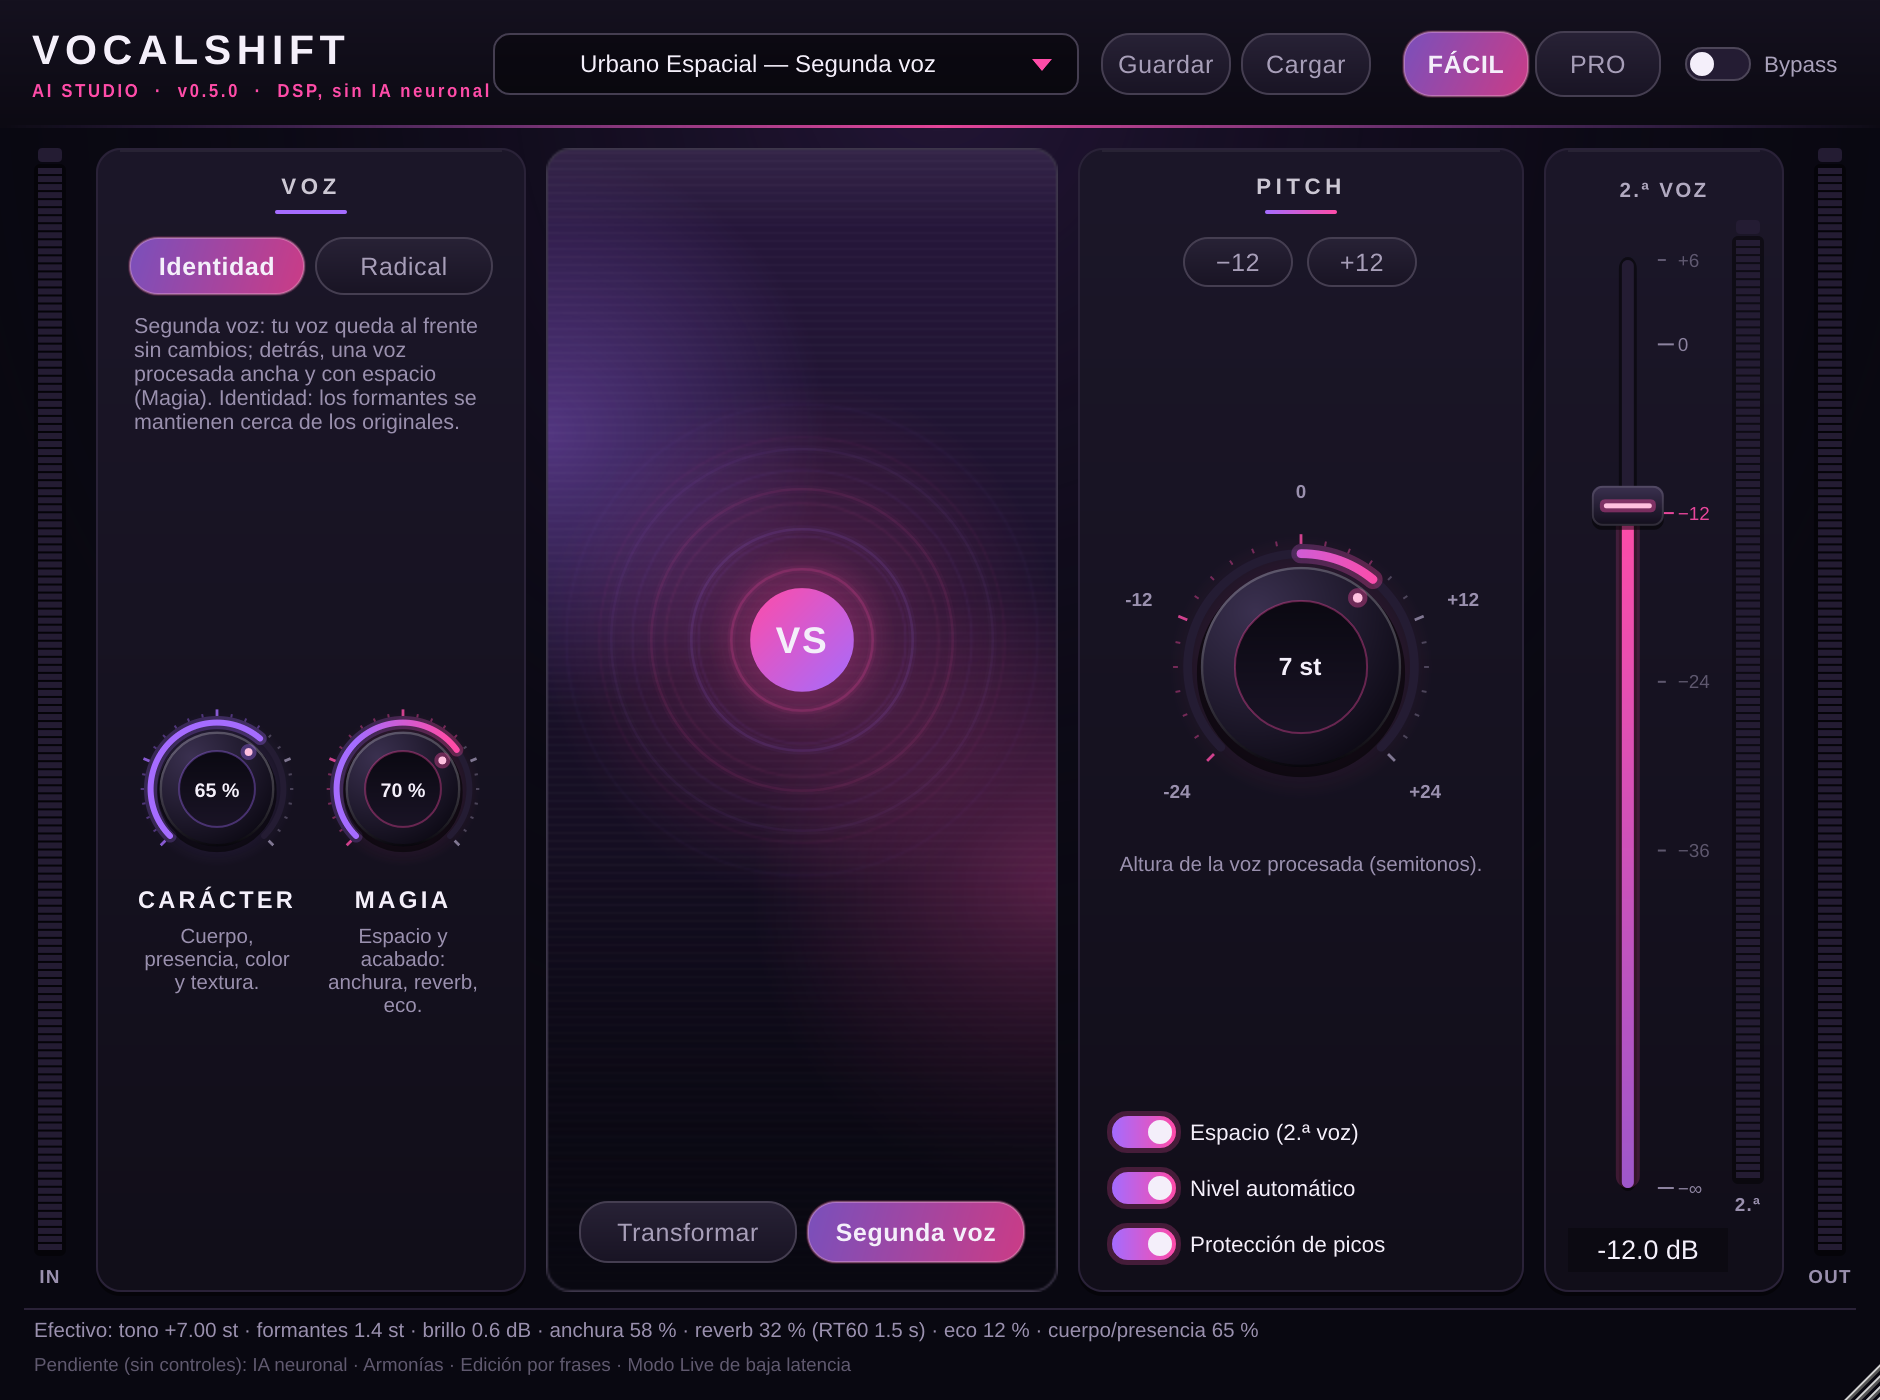
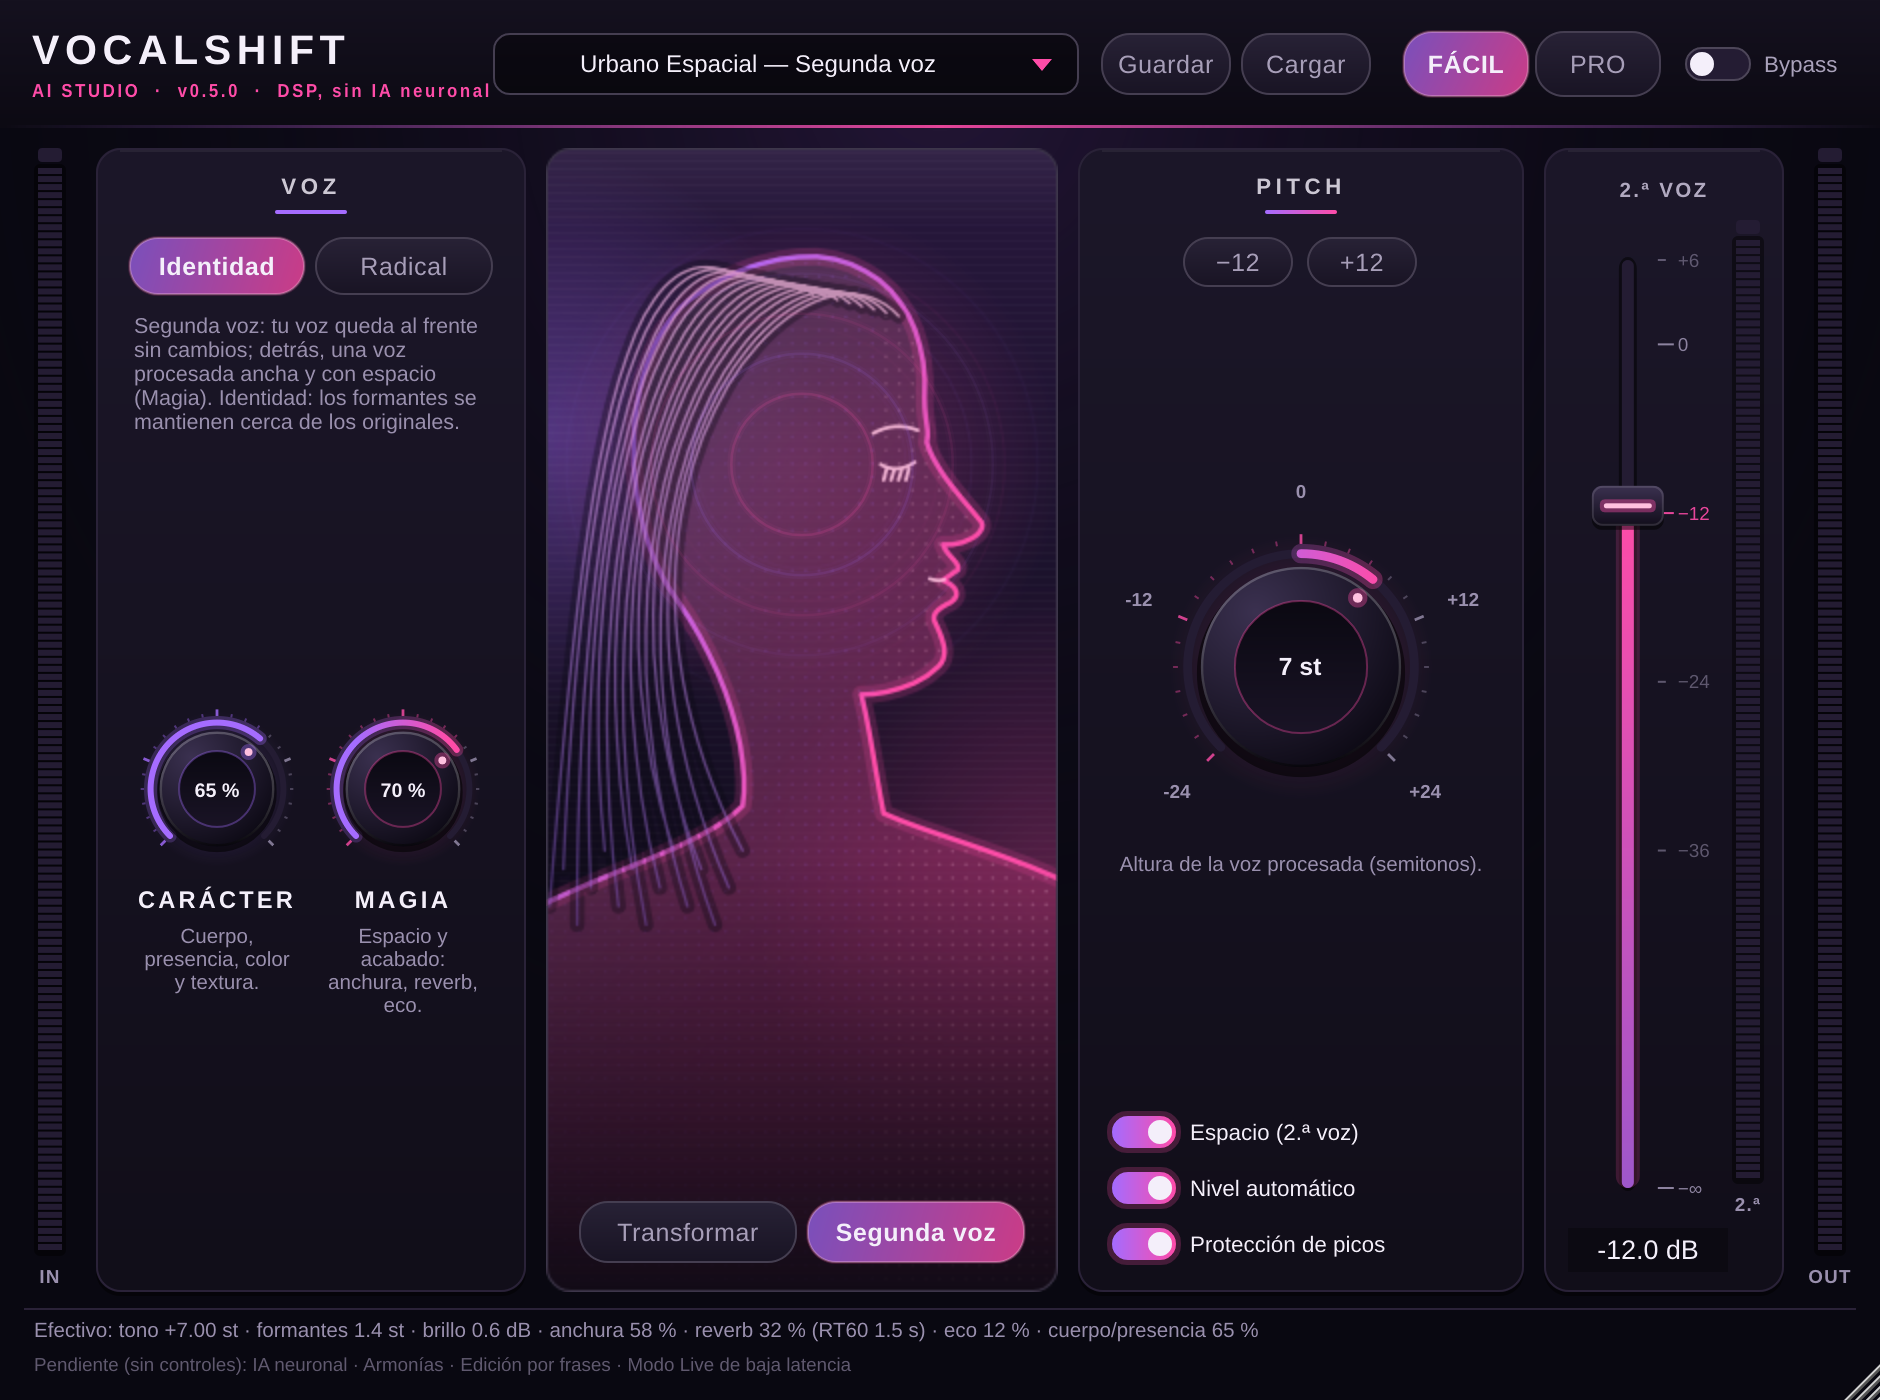
Rediseño visual, entrega 2: rostro vectorial original en el panel central
- Perfil femenino en líneas neón dibujado con código para VocalShift (no
  calcado de ninguna foto ni producto): silueta translúcida, malla de puntos,
  contorno con halo, cejas, ojo con pestañas y mechones de pelo luminosos.
- El contorno frontal se ilumina con el nivel de salida; los anillos quedan
  como halo detrás de la cabeza.
- Todo se pre-renderiza en caché; solo el contorno y los anillos se repintan.

Claude-Session: https://claude.ai/code/session_011a7Avx1tQ3csYw1RtZdBqX

Changed region(s): [[0.2777, 0.1536, 0.5862, 0.86]]

diff --git a/src/plugin/PluginEditor.cpp b/src/plugin/PluginEditor.cpp
@@ -372,9 +372,85 @@ void IdentityPanel::setLevel (float linearPeak)
     }
 }
 
+Rectangle<float> IdentityPanel::faceBox() const
+{
+    // square box for the profile drawing (unit coordinates 0..1); wider than the panel is fine, it is clipped
+    const float side = jmin ((float) getWidth() * 1.45f, (float) getHeight() * 0.92f);
+    return { (float) getWidth() * 0.5f - side * 0.5f, (float) getHeight() * 0.03f, side, side };
+}
+
 Point<float> IdentityPanel::ringCentre() const
 {
-    return { (float) getWidth() * 0.5f, (float) getHeight() * 0.43f };
+    const auto fb = faceBox();
+    return { fb.getX() + fb.getWidth() * 0.50f, fb.getY() + fb.getHeight() * 0.38f };
+}
+
+// Original line-art profile (drawn for VocalShift; not traced from any photo or product).
+// Coordinates are in a unit box; the face looks to the right, towards the PITCH column.
+static Point<float> fp (Rectangle<float> b, float x, float y) { return { b.getX() + x * b.getWidth(), b.getY() + y * b.getHeight() }; }
+
+Path IdentityPanel::faceSilhouette (Rectangle<float> b)
+{
+    Path p;
+    auto c = [&] (float x1, float y1, float x2, float y2, float x, float y) { p.cubicTo (fp (b, x1, y1), fp (b, x2, y2), fp (b, x, y)); };
+    p.startNewSubPath (fp (b, 0.520f, 0.100f));
+    c (0.620f, 0.110f, 0.670f, 0.190f, 0.665f, 0.290f); // forehead
+    c (0.665f, 0.320f, 0.672f, 0.335f, 0.668f, 0.350f); // brow ridge
+    c (0.680f, 0.390f, 0.720f, 0.430f, 0.742f, 0.458f); // nose
+    c (0.748f, 0.475f, 0.715f, 0.490f, 0.690f, 0.488f); // under the nose
+    c (0.695f, 0.503f, 0.713f, 0.512f, 0.710f, 0.522f); // upper lip
+    p.lineTo (fp (b, 0.690f, 0.536f));                  // mouth corner
+    c (0.712f, 0.546f, 0.712f, 0.558f, 0.700f, 0.566f); // lower lip
+    c (0.688f, 0.572f, 0.676f, 0.578f, 0.678f, 0.590f); // chin dip
+    c (0.688f, 0.612f, 0.700f, 0.635f, 0.684f, 0.652f); // chin
+    c (0.655f, 0.680f, 0.610f, 0.690f, 0.580f, 0.690f); // jaw
+    c (0.592f, 0.740f, 0.600f, 0.800f, 0.610f, 0.850f); // throat
+    c (0.700f, 0.890f, 0.850f, 0.920f, 0.950f, 1.000f); // front shoulder
+    p.lineTo (fp (b, 0.950f, 2.000f)); // far below the panel: the bottom edge is never visible
+    p.lineTo (fp (b, 0.100f, 2.000f));
+    p.lineTo (fp (b, 0.100f, 1.000f));
+    c (0.220f, 0.930f, 0.360f, 0.900f, 0.420f, 0.840f); // back shoulder
+    c (0.430f, 0.770f, 0.400f, 0.660f, 0.330f, 0.560f); // nape
+    c (0.250f, 0.450f, 0.250f, 0.220f, 0.360f, 0.150f); // back of the head
+    c (0.420f, 0.110f, 0.470f, 0.100f, 0.520f, 0.100f); // crown
+    p.closeSubPath();
+    return p;
+}
+
+Path IdentityPanel::faceDetails (Rectangle<float> b)
+{
+    Path p;
+    // brow
+    p.startNewSubPath (fp (b, 0.596f, 0.338f));
+    p.quadraticTo (fp (b, 0.625f, 0.322f), fp (b, 0.656f, 0.334f));
+    // closed eye (almond) with lashes
+    p.startNewSubPath (fp (b, 0.606f, 0.380f));
+    p.quadraticTo (fp (b, 0.628f, 0.393f), fp (b, 0.652f, 0.377f));
+    for (int i = 0; i < 4; ++i)
+    {
+        const float x = 0.614f + 0.010f * (float) i;
+        p.startNewSubPath (fp (b, x, 0.388f + (i == 0 || i == 3 ? -0.002f : 0.0f)));
+        p.lineTo (fp (b, x - 0.004f, 0.401f));
+    }
+    // lip parting line
+    p.startNewSubPath (fp (b, 0.672f, 0.534f));
+    p.quadraticTo (fp (b, 0.684f, 0.538f), fp (b, 0.692f, 0.535f));
+    return p;
+}
+
+Path IdentityPanel::hairStrands (Rectangle<float> b)
+{
+    Path p;
+    const int n = 15;
+    for (int i = 0; i < n; ++i)
+    {
+        const float t = (float) i / (float) (n - 1);
+        p.startNewSubPath (fp (b, 0.630f - 0.230f * t, 0.180f - 0.060f * t));
+        p.cubicTo (fp (b, 0.500f - 0.260f * t, 0.040f + 0.020f * t),
+                   fp (b, 0.170f + 0.030f * t, 0.420f + 0.060f * t),
+                   fp (b, 0.420f - 0.260f * t, 0.900f + 0.025f * (float) ((i * 7) % 5))); // staggered ends
+    }
+    return p;
 }
 
 void IdentityPanel::renderBackground()
@@ -414,13 +490,51 @@ void IdentityPanel::renderBackground()
         g.setColour (Colours::white.withAlpha (0.025f));
         for (float yy = r.getY() + 2.0f; yy < r.getBottom(); yy += 4.0f)
             g.fillRect (r.getX(), yy, r.getWidth(), 1.0f);
-        // static thin rings
+        // static thin rings (halo behind the head)
         for (int k = 0; k < 6; ++k)
         {
             const float rr = base * (0.30f + 0.14f * (float) k);
             g.setColour ((k % 2 == 0 ? pal::rose : pal::violet).withAlpha (0.10f - 0.012f * (float) k));
             g.drawEllipse (Rectangle<float> (rr * 2.0f, rr * 2.0f).withCentre (c), 1.0f);
         }
+
+        // original neon profile: hair strands, translucent silhouette, dot mesh, glowing outline and details
+        const auto fb = faceBox();
+        const float lw = jmax (1.0f, fb.getWidth() * 0.004f);
+        const auto silhouette = faceSilhouette (fb);
+        const auto hair = hairStrands (fb);
+        const auto details = faceDetails (fb);
+
+
+        g.setGradientFill (ColourGradient (pal::violetDeep.brighter (0.2f).withAlpha (0.75f), fb.getX() + fb.getWidth() * 0.3f, fb.getY(), pal::rose.darker (0.6f).withAlpha (0.55f), fb.getRight() * 0.95f, fb.getY() + fb.getHeight() * 0.6f, false));
+        g.fillPath (silhouette);
+
+        // dot mesh inside the face: denser light near the front edge (lit from the right)
+        {
+            const float step = jmax (5.0f, fb.getWidth() * 0.018f);
+            const auto sb = silhouette.getBounds();
+            for (float yy = sb.getY() + step * 0.5f; yy < sb.getBottom(); yy += step)
+                for (float xx = sb.getX() + step * 0.5f; xx < sb.getRight(); xx += step)
+                    if (silhouette.contains (xx, yy))
+                    {
+                        const float tx = jlimit (0.0f, 1.0f, (xx - sb.getX()) / sb.getWidth());
+                        g.setColour ((tx > 0.6f ? pal::roseSoft : pal::violet).withAlpha (0.08f + 0.30f * tx * tx));
+                        g.fillEllipse (xx - 0.8f, yy - 0.8f, 1.6f, 1.6f);
+                    }
+        }
+
+        // outline glow (wide, faint) then the bright neon line
+        g.setColour (pal::rose.withAlpha (0.18f));
+        g.strokePath (silhouette, PathStrokeType (lw * 6.0f, PathStrokeType::curved, PathStrokeType::rounded));
+        g.setGradientFill (ColourGradient (pal::violet, fb.getX() + fb.getWidth() * 0.3f, fb.getY() + fb.getHeight() * 0.3f, pal::rose, fb.getX() + fb.getWidth() * 0.72f, fb.getY() + fb.getHeight() * 0.5f, false));
+        g.strokePath (silhouette, PathStrokeType (lw * 1.6f, PathStrokeType::curved, PathStrokeType::rounded));
+        g.setColour (pal::roseSoft.withAlpha (0.9f));
+        g.strokePath (details, PathStrokeType (lw * 1.2f, PathStrokeType::curved, PathStrokeType::rounded));
+        // hair over the back of the head: dark mass, then luminous strands
+        g.setColour (pal::bg.withAlpha (0.35f));
+        g.strokePath (hair, PathStrokeType (lw * 5.0f, PathStrokeType::curved, PathStrokeType::rounded));
+        g.setGradientFill (ColourGradient (pal::roseSoft.withAlpha (0.75f), fb.getX() + fb.getWidth() * 0.6f, fb.getY() + fb.getHeight() * 0.1f, pal::violet.withAlpha (0.35f), fb.getX() + fb.getWidth() * 0.2f, fb.getBottom(), false));
+        g.strokePath (hair, PathStrokeType (lw * 0.9f, PathStrokeType::curved, PathStrokeType::rounded));
     }
 
     // bottom fade so the route selector reads clearly, and a top sheen
@@ -457,15 +571,11 @@ void IdentityPanel::paint (Graphics& g)
     }
     if (! face.isValid())
     {
-        // core: glowing disc with the VS monogram (placeholder until the face artwork is chosen)
-        const float coreR = base * 0.22f;
-        g.setGradientFill (ColourGradient (pal::rose.withAlpha (0.35f + 0.4f * level), c.x, c.y, pal::rose.withAlpha (0.0f), c.x + coreR * 1.8f, c.y, true));
-        g.fillEllipse (Rectangle<float> (coreR * 3.6f, coreR * 3.6f).withCentre (c));
-        g.setGradientFill (ColourGradient (pal::rose, c.x - coreR, c.y - coreR, pal::violet, c.x + coreR, c.y + coreR, false));
-        g.fillEllipse (Rectangle<float> (coreR * 2.0f, coreR * 2.0f).withCentre (c));
-        g.setColour (pal::text);
-        g.setFont (uiFont (coreR * 0.8f, true, 0.04f));
-        g.drawText ("VS", Rectangle<float> (coreR * 2.0f, coreR * 2.0f).withCentre (c), Justification::centred);
+        // the profile's front edge brightens with the voice
+        const auto fb = faceBox();
+        const float lw = jmax (1.0f, fb.getWidth() * 0.004f);
+        g.setColour (pal::rose.withAlpha (0.10f + 0.45f * level));
+        g.strokePath (faceSilhouette (fb), PathStrokeType (lw * (2.0f + 4.0f * level), PathStrokeType::curved, PathStrokeType::rounded));
     }
 }
 

diff --git a/src/plugin/PluginEditor.h b/src/plugin/PluginEditor.h
@@ -91,6 +91,10 @@ public:
 
 private:
     void renderBackground();
+    juce::Rectangle<float> faceBox() const;
+    static juce::Path faceSilhouette (juce::Rectangle<float> box);
+    static juce::Path faceDetails (juce::Rectangle<float> box);   // brow, eye, lashes, ear, lip line
+    static juce::Path hairStrands (juce::Rectangle<float> box);
     juce::Image cache, face;
     float level = 0.0f; // 0..1 smoothed
 };
